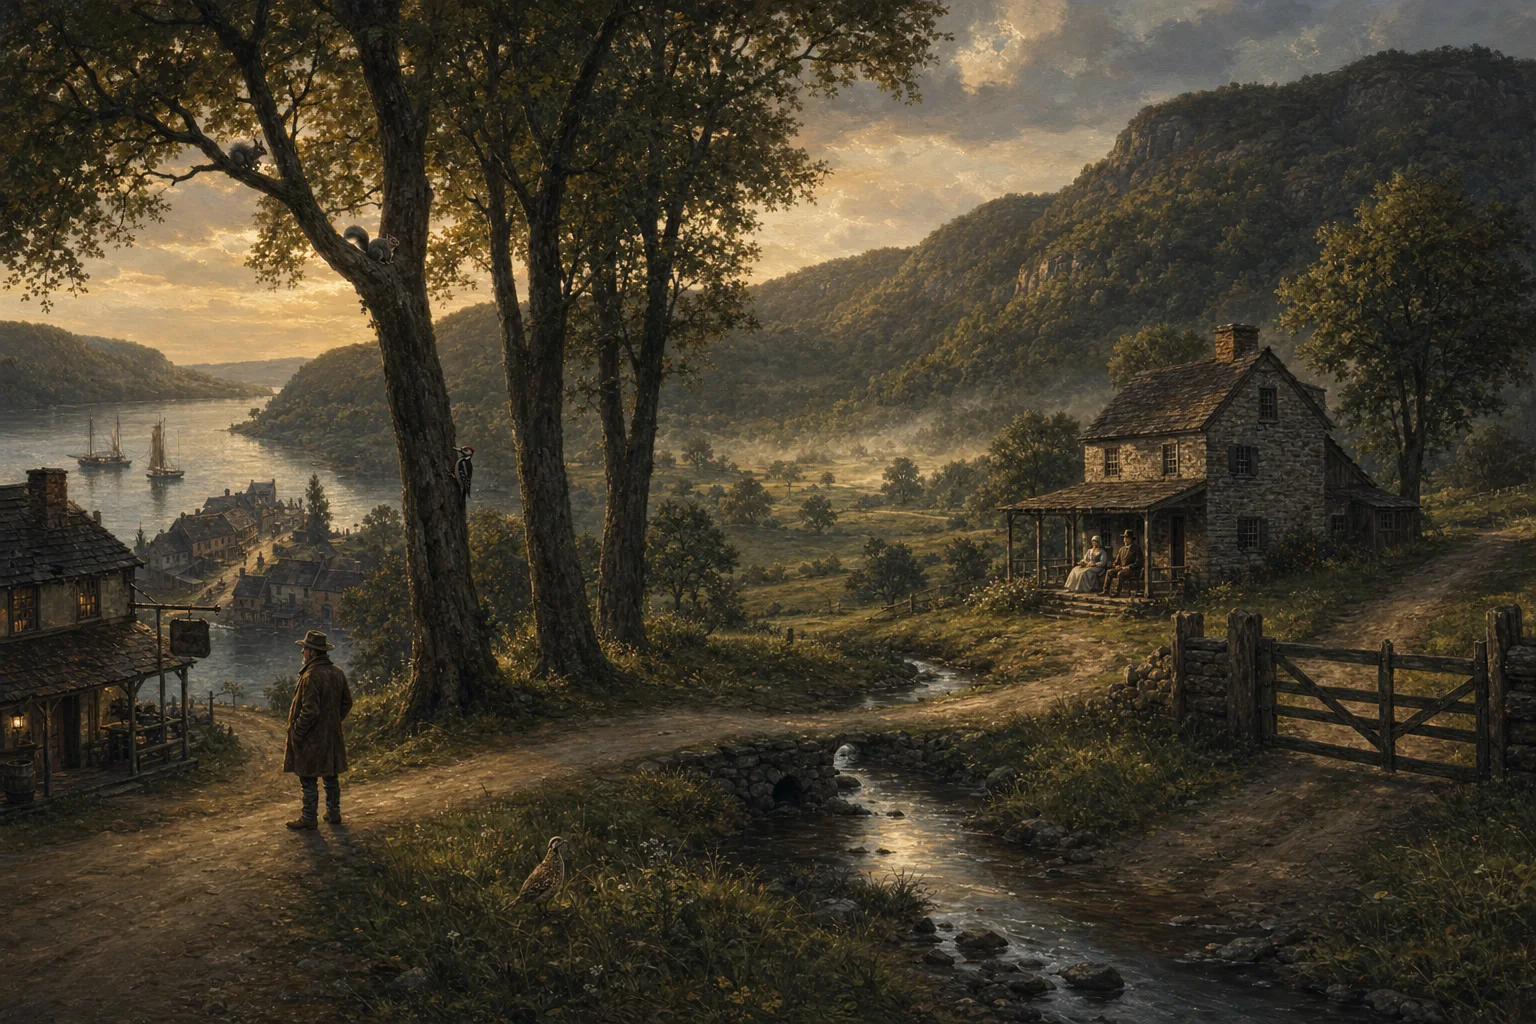
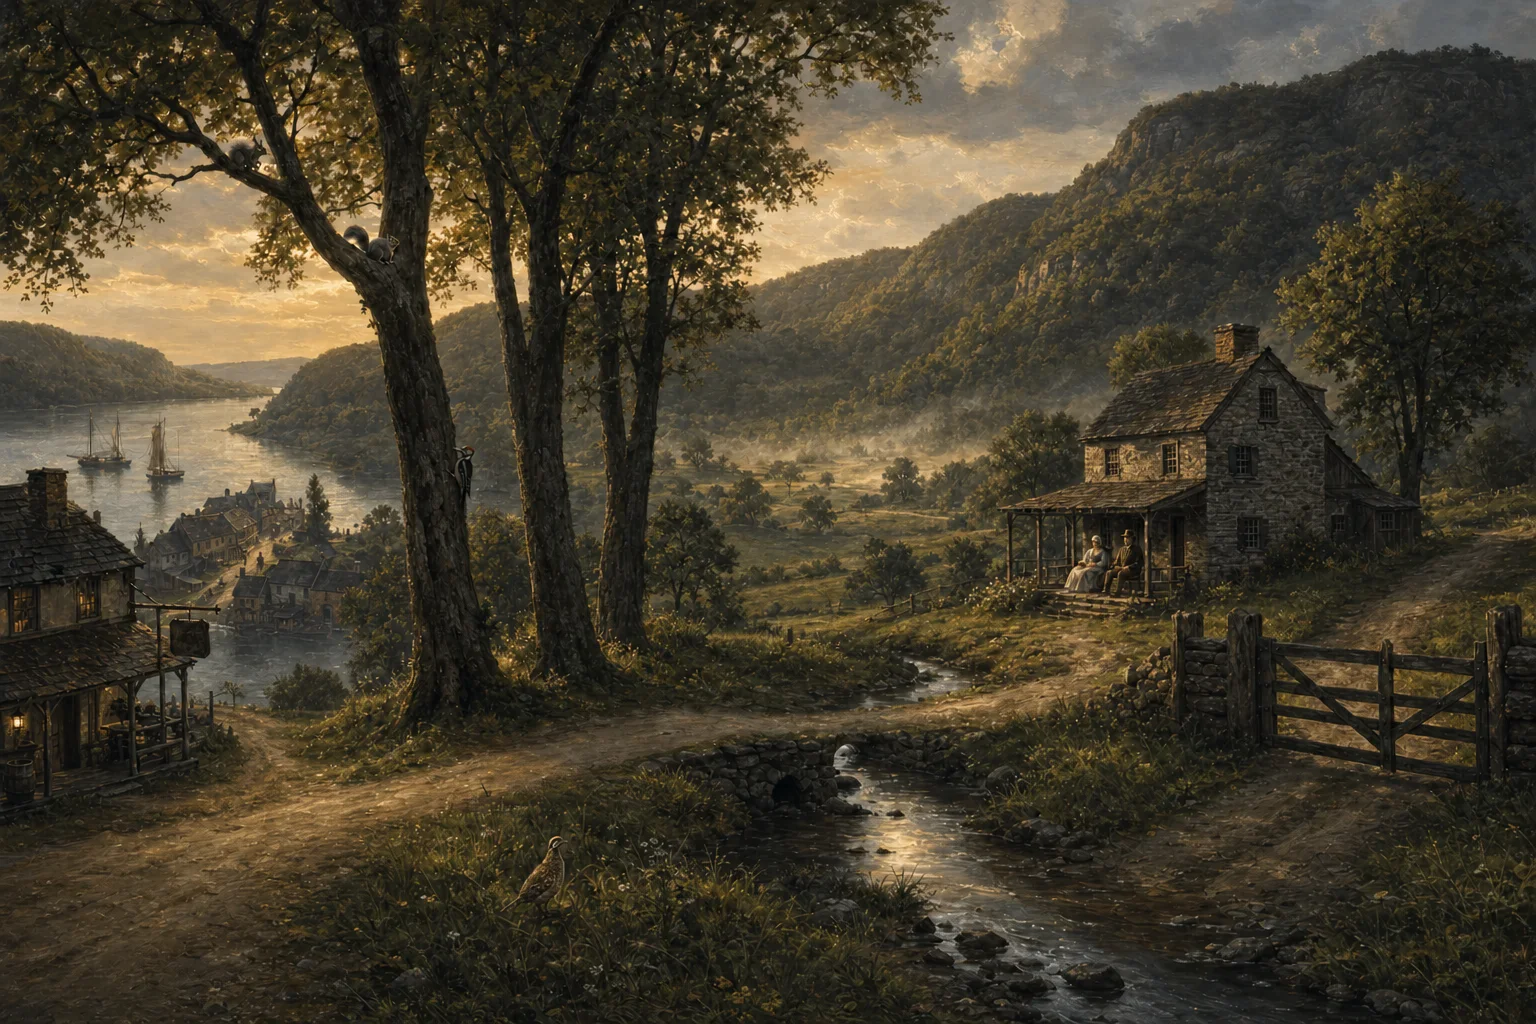
Room 1: Hans, Brom and Katrina painted out of the two scenes (witnesses aren't painted in), for review

diff --git a/tests/room-scene.test.ts b/tests/room-scene.test.ts
@@ -74,7 +74,7 @@ test("the solo room: a chamber with a scene returns to it after each lock, and t
 });
 
 test("Rooms 2 to 6 have their two painted scenes (approved 2026-11-21: Rooms 2 and 3); a code-dial answer never appears in a scene's words", () => {
-  for (const id of ["the-schoolmaster", "tales-by-the-fire", "the-van-tassel-farm", "a-rival-appears", "the-feud", "the-invitation", "the-ride-to-the-party", "the-feast-and-the-dance", "ghost-stories", "the-lonely-road", "the-headless-horseman", "gone", "the-postscript"]) for (const c of [1, 2]) {
+  for (const id of ["into-the-hollow", "the-schoolmaster", "tales-by-the-fire", "the-van-tassel-farm", "a-rival-appears", "the-feud", "the-invitation", "the-ride-to-the-party", "the-feast-and-the-dance", "ghost-stories", "the-lonely-road", "the-headless-horseman", "gone", "the-postscript"]) for (const c of [1, 2]) {
     const sc = sceneOf(world, id, c)!; assert.ok(sc, `${id} chamber ${c}`); assert.ok(existsSync("public" + sc.art), sc.art); assert.deepEqual(sc.witnesses, [], "no witness painted in");
   }
   // Punishment is never a spot (Room 2 lock 5 is the school itself).
